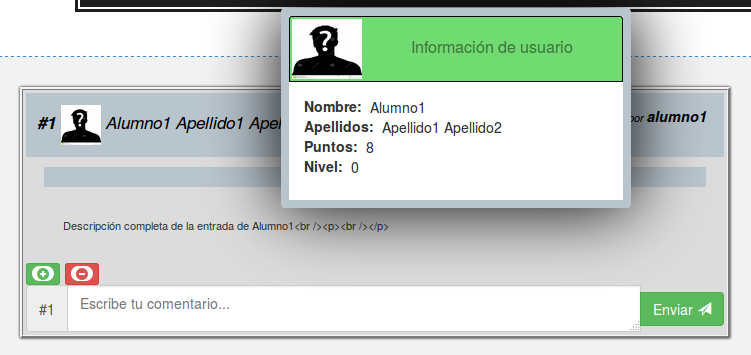
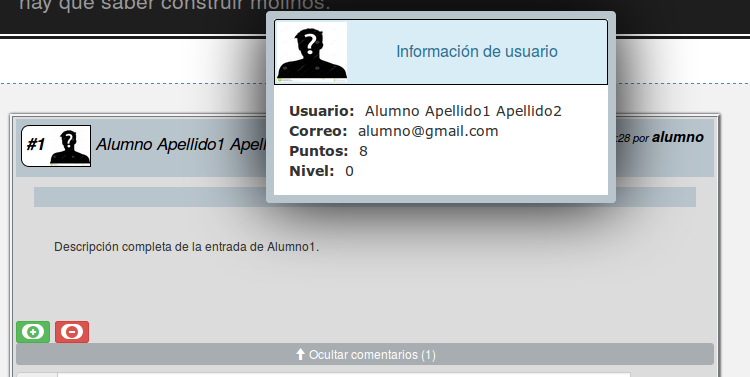
Manual de usuario actualizado.

diff --git a/memoria.tex b/memoria.tex
@@ -1315,7 +1315,7 @@ apropiado por otro usuario en rojo o por el contrario se encuentra libre en verd
 
 Una vez relleno todos los campos del formulario se debe pulsar el bot\'on ''Guardar''. Si los datos son correctos se redirigir\'a a la p\'agina de inicio
 de sesi\'on para que se proceda con la identificaci\'on. Si los datos son incorrectos se mostrar\'a una alerta o panel rojo debajo del formulario con un 
-mensaje de informaci\'on err\'onea que anime a introducirlos otra vez. Se puede dar al icono de la ''X'' para cerrar el panel 
+mensaje de informaci\'on err\'onea que anime a introducirlos otra vez. Se puede dar al icono ''X'' para cerrar el panel 
 (figura~\ref{figura:registro2}).
 \begin{figure}[htbp] 
   \centering
@@ -1325,7 +1325,7 @@ mensaje de informaci\'on err\'onea que anime a introducirlos otra vez. Se puede 
 \end{figure}
 
 Seg\'un se ve en el mensaje de informaci\'on err\'onea existe la posibilidad de pasar el rat\'on por encima del icono de informaci\'on, a la izquierda del 
-bot\'on ''Guardar''. Al realizar esta acci\'on se abre una alerta azul con un mensaje recordatorio de como debe ser los datos introducidos para un correcto
+bot\'on ''Guardar''. Al realizar esta acci\'on se abre una alerta azul con un mensaje recordatorio de como deben ser los datos introducidos para un correcto
 registro de perfil de usuario. Son cinco condiciones que se enumeran en la figura~\ref{figura:registro3}.
 \begin{figure}[htbp] 
   \centering
@@ -1342,7 +1342,7 @@ redirigir\'a a la p\'agina de inicio de sesi\'on.
 \label{app:presentaciontutor}
 Despu\'es de haber realizado el registro de usuario como tutor y de introducir nombre de usuario y contrase\~na en la p\'agina de inicio, la sesi\'on 
 comienza con la presentaci\'on de tutor o perfil de tutor (figura~\ref{figura:tutor}). En la cabecera se ofrece la posibilidad de desconectar la sesi\'on (a la derecha, pulsando el 
-enlace ''Desconectar'' en rojo). S\'olo aparece una pesta\~na ''Mis hilos'' a la izquierda la cual tiene la funci\'on de actualizar la p\'agina de perfil 
+enlace ''Desconectar'' en rojo). S\'olo aparece una pesta\~na ''Mis hilos'', a la izquierda, la cual tiene la funci\'on de actualizar la p\'agina de perfil 
 de tutor. Tambi\'en se exhibe una foto del usuario y un t\'itulo con la expresi\'on \textit{Espacio de NOMBRE APELLIDO1 APELLIDO2} indicando de quien es el
 perfil.
 
@@ -1367,8 +1367,8 @@ Las secciones que se incluyen en la presentaci\'on de un tutor son:
   \end{figure}
   
   \item {\bfseries Hilos disponibles}: Se presentan todos los hilos creados anteriormente a los que el tutor no est\'a suscrito (ya sean creados o no por 
-  el tutor del propio perfil). Como se ve en la figura~\ref{figura:tutor2} cada hilo expone un bot\'on ''A\~nadir'' para que cuando sea presionado, el hilo 
-  correspondiente pase a la secci\'on de ''Mis hilos''.
+  el tutor del propio perfil). Sin embargo, como se muestra en la figura~\ref{figura:tutor2}, al lado de cada hilo se expondr\'a un bot\'on ''A\~nadir'' 
+  solamente si ha sido creado por dicho tutor. Si se presiona pasar\'a a la secci\'on de ''Mis hilos''.
   \begin{figure}[htbp] 
     \centering
     \Ovalbox{\includegraphics[width=17cm, keepaspectratio]{imagenes/PresentacionTutorHilosDisponibles}}
@@ -1378,7 +1378,7 @@ Las secciones que se incluyen en la presentaci\'on de un tutor son:
   
   \item {\bfseries Mis hilos}: Se presentan todos los hilos a los que el tutor est\'a suscrito (figura~\ref{figura:tutor3}). Para cada hilo se hallan las 
   alternativas de apretar el bot\'on ''Eliminar'' para suprimir el hilo de esta secci\'on y enviarlo a ''Hilos disponibles'', o de presionar el bot\'on
-  ''Visitar'' para acceder a la p\'agina propia de la asignatura pertinente. Al pulsar sobre el bot\'on ''Eliminar se abre un cuadro de di\'alogo en el 
+  ''Visitar'' para acceder a la p\'agina propia de la asignatura pertinente. Al pulsar sobre el bot\'on ''Eliminar'' se abre un cuadro de di\'alogo en el 
   centro de la pantalla para asegurarse de que es la acci\'on que realmente se quiere realizar.
   \begin{figure}[htbp] 
     \centering
@@ -1393,7 +1393,7 @@ Las secciones que se incluyen en la presentaci\'on de un tutor son:
 \label{app:presentacionalumno}
 Despu\'es de haber realizado el registro de usuario como alumno y de introducir nombre de usuario y contrase\~na en la p\'agina de inicio, la sesi\'on 
 comienza con la presentaci\'on de alumno o perfil de alumno (figura~\ref{figura:alumno}). En la cabecera se ofrece la posibilidad de desconectar la sesi\'on 
-(a la derecha, pulsando el enlace ''Desconectar'' en rojo). S\'olo aparece una pesta\~na ''Mis hilos'' a la izquierda la cual tiene la funci\'on de 
+(a la derecha, pulsando el enlace ''Desconectar'' en rojo). S\'olo aparece una pesta\~na ''Mis hilos'', a la izquierda, la cual tiene la funci\'on de 
 actualizar la p\'agina de perfil de alumno. Tambi\'en se exhibe una foto del usuario y un t\'itulo con la expresi\'on 
 \textit{Espacio de NOMBRE APELLIDO1 APELLIDO2} indicando de quien es el perfil.
 
@@ -1410,7 +1410,8 @@ Las secciones que se incluyen en la presentaci\'on de un alumno son:
   \item {\bfseries Hilos disponibles}: Se presentan todos los hilos creados anteriormente a los que el alumno no est\'a suscrito. Como se ve en la 
   figura~\ref{figura:alumno1} cada hilo expone un bot\'on ''Guardar y a\~nadir'' para que cuando sea presionado, el hilo correspondiente pase a la 
   secci\'on de ''Mis hilos''. Pero antes se debe haber introducido un enlace \textit{Rss} v\'alido en el formulario proporcionado para ello. En ese 
-  \textit{Rss} ser\'a donde el alumno guardar\'a sus entradas para que dentro de la aplicaci\'on aparezcan autom\'aticamente en el hilo al que pertenecen.
+  \textit{Rss} (blog) ser\'a donde el alumno escribir\'a sus entradas para que se publiquen autom\'aticamente dentro de la aplicaci\'on, concretamente
+  en el hilo al que pertenecen.
   \begin{figure}[htbp] 
     \centering
     \Ovalbox{\includegraphics[width=17cm, keepaspectratio]{imagenes/PresentacionAlumnoHilosDisponibles}}
@@ -1428,7 +1429,7 @@ Las secciones que se incluyen en la presentaci\'on de un alumno son:
   \end{figure}
   
   \item {\bfseries Mis hilos}: Se presentan todos los hilos a los que el alumno est\'a suscrito (secci\'on id\'entica a la que expone la presentaci\'on de 
-  tutor~\ref{figura:tutor3}). Para cada hilo se hallan las alternativas de apretar el bot\'on ''Eliminar'' para suprimir el hilo de esta secci\'on y 
+  tutor (figura~\ref{figura:tutor3}). Para cada hilo se hallan las alternativas de apretar el bot\'on ''Eliminar'' para suprimir el hilo de esta secci\'on y 
   enviarlo a ''Hilos disponibles'', o de presionar el bot\'on ''Visitar'' para acceder a la p\'agina propia de la asignatura pertinente. Al pulsar sobre el 
   bot\'on ''Eliminar'' se abre un cuadro de di\'alogo en el centro de la pantalla para asegurarse de que es la acci\'on que realmente se quiere realizar, 
   avisando de los riesgos que ello conlleva (figura~\ref{figura:alumno3}).
@@ -1452,7 +1453,7 @@ figura~\ref{figura:hiloalumno} se muestra un hilo vac\'io en sus inicios, sin en
   \label{figura:hiloalumno}
 \end{figure}
 
-Para visualizar tus propias entradas es necesario escribir previamente en el blog asociado a esa asignatura. En la aplicaci\'on se ejecuta un script 
+Para ver tus propias entradas es necesario escribir previamente en el blog asociado a esa asignatura. En la aplicaci\'on se ejecuta un script 
 autom\'atico cada sesenta segundos que se encarga de guardar y actualizar las entradas de todos los blogs de todos los alumnos que est\'en suscritos al 
 hilo. Cada vez que un usuario suscrito escriba un mensaje en su blog, este mensaje se plasmar\'a en el contenedor de la p\'agina. Para recargar la p\'agina 
 se puede pulsar sobre la pesta\~na que est\'a activa en cabecera, y que expone el t\'itulo del hilo.
@@ -1472,9 +1473,18 @@ El usuario puede interactuar con una entrada (\ref{figura:hiloalumno1}) de diver
   de un \textit{planet}. Si un usuario presiona uno de los dos botones sobre una entrada, no podr\'a valorar m\'as veces en ella, ya que ambos botones 
   emerger\'an deshabilitados con su contador total. En este momento, el usuario podr\'a visualizar el total de valoraciones positivas y negativas que posee 
   esa entrada.
-  \item {\bfseries Valoraci\'on cualitativa}: El \'area facilitado para escribir un comentario aporta una valoraci\'on cualitativa. Si el usuario decide 
-  proponer una opini\'on sobre una entrada, este usuario recibir\'a una bonificaci\'on de tres \textit{planets} al presionar el bot\'on ''Enviar''. Si ese
-  comentario es eliminado, el usuario obtendr\'a una penalizaci\'on de tres \textit{planets}.
+  \item {\bfseries Valoraci\'on cualitativa}: El \'area facilitado para escribir un comentario aporta una valoraci\'on cualitativa. Para mostrar dicho 
+  \'area hay que desplegar el bot\'on ''Mostrar comentarios'', al lado del cual se encuentra un contador total de comentarios escritos sobre esa entrada.
+  Si el usuario decide proponer una opini\'on, este usuario recibir\'a una bonificaci\'on de tres \textit{planets} al presionar el bot\'on ''Enviar'', y 
+  simult\'aneamente se mostrar\'a un popup informando de que acabas de recibir tres \textit{planets} (ver figura~\ref{figura:hiloalumno6})
+  \begin{figure}[htbp] 
+    \centering
+    \Ovalbox{\includegraphics[width=17cm, keepaspectratio]{imagenes/HiloAlumnoInfoComentario}}
+    \caption{Informaci\'on emergente de un comentario.}
+    \label{figura:hiloalumno6}
+  \end{figure}
+  
+  Si ese comentario es eliminado, el usuario obtendr\'a una penalizaci\'on de tres \textit{planets}.
   \item {\bfseries Ojear blog}: En una entrada existen dos enlaces que redirigir\'an directamente al blog del alumno donde se ubican todas sus entradas 
   fuera de la aplicaci\'on. Los dos enlaces aparecen en forma de ''Nombre y apellidos'' y ''Nick'' (al lado de la fecha, en negrita).
   
@@ -1488,16 +1498,27 @@ El usuario puede interactuar con una entrada (\ref{figura:hiloalumno1}) de diver
     \label{figura:hiloalumno2}
   \end{figure}
   
-  \item {\bfseries Informaci\'on adicional}: Adem\'as, la entrada muestra el n\'umero de identificaci\'on seguido de ''\#''. Para cada hilo no puede existir
+  \item {\bfseries Informaci\'on adicional}: Adem\'as, la entrada muestra el n\'umero de identificaci\'on seguido de ''\#'' y una foto. Para cada hilo no puede existir
   dos entradas con un mismo n\'umero identificativo.
 \end{itemize}
+
+\subsection{Logo}
+Debajo de la cabecera, en la parte izquierda se puede observar el logo y el nombre de la aplicaci\'on, junto con una frase motivadora que hace de eslogan.
+Cada vez que se recarga la p\'agina o se presiona sobre la frase, \'esta se modifica autom\'atica y aleatoriamente de entre un conjunto de 21 oraciones 
+(~\ref{figura:logonombrefrase})
+\begin{figure}[htbp] 
+  \centering
+  \Ovalbox{\includegraphics[width=17cm, keepaspectratio]{imagenes/LogoNombreFrase}}
+  \caption{Logo, nombre y eslogan aleatorio de la aplicaci\'on.}
+  \label{figura:logonombrefrase}
+\end{figure}
 
 \subsection{Entradas m\'as valoradas}
 Otra parte importante se sit\'ua en la parte superior de la p\'agina debajo de la cabecera, donde se agrupan las entradas con m\'as valoraci\'on 
 cuantitativa de la asignatura. Se aplica una f\'ormula, la cual suma dos \textit{planets} por cada valoraci\'on positiva y resta un \textit{planet} por 
-cada valoraci\'on negativa. Se calcula el total de la suma y se plasman las seis mejores entradas.
+cada valoraci\'on negativa. Se calcula el total de la suma y se plasman las diez mejores entradas.
 
-En la figura~\ref{figura:hiloalumno3} se muestra la secci\'on donde encajan las seis entradas seleccionadas. Cada una se rellena con el n\'umero de 
+En la figura~\ref{figura:hiloalumno3} se muestra la secci\'on donde encajan las diez entradas seleccionadas. Cada una se rellena con el n\'umero de 
 posici\'on que ocupa, su identificador, su t\'itulo, la persona que lo escribi\'o, su fecha, las valoraciones positivas y negativas (en color verde y rojo,
 respectivamente), y por \'ultimo su n\'umero total de \textit{planets}. Para obtener el n\'umero total de planets es necesario pinchar encima de cada 
 entrada (al mantener el rat\'on encima un instante sale un mensaje informativo).
@@ -1510,7 +1531,7 @@ entrada (al mantener el rat\'on encima un instante sale un mensaje informativo).
 
 \subsection{Usuarios suscritos}
 En la columna situada a la derecha se re\'unen en una tabla todos los alumnos suscritos en el hilo. Esta tabla se compone de tres columnas correspondientes
-al nick de usuario, nombre y apellidos de usuario, y un enlace que redirecciona al Rss del blog que est\'a asociado al hilo con el propio alumno 
+al nick de usuario, nombre y apellidos de usuario, y un enlace que redirecciona al Rss del blog del alumno. 
 (~\ref{figura:hiloalumno4}).
 \begin{figure}[htbp] 
   \centering
@@ -1535,7 +1556,7 @@ determinada altura. Si se pulsa sobre ella, el scroll asciende autom\'aticamente
 \end{figure}
 
 \section{Hilo de profesor}
-Se conservan las mismas funciones que en el hilo de alumno (leer secci\'on~\ref{app:hiloalumno}) con algunos cambios en ''Entradas'' y en ''Usuarios 
+Se conservan las mismas funciones que en la secci\'on~\ref{app:hiloalumno} (hilo de alumno) con algunos cambios en ''Entradas'' y en ''Usuarios 
 suscritos''. En la figura~\ref{figura:hiloprofesor} se observa como estos cambios se reducen simplemente a que un tutor tiene el permiso de eliminar 
 cualquier entrada y cualquier alumno de un determinado hilo.
 \begin{figure}[htbp] 
@@ -1560,11 +1581,11 @@ usuario de ese hilo o no. Ver figura~\ref{figura:hiloprofesor1}(b).
 
 \section{Opciones de men\'u en cabecera}
 Dentro de la cabecera del hilo de un alumno o de un tutor se encuentran varias opciones. Cada pesta\~na esconde un enlace que redirigir\'a a su 
-perteneciente p\'agina. Una vez el usuario se encuentre en la p\'agina del enlace pulsado, la pesta\~na se mostrar\'a activa en color blanco mientras que 
+correspondiente p\'agina. Una vez el usuario se encuentre en la p\'agina del enlace pulsado, la pesta\~na se mostrar\'a activa en color blanco mientras que 
 las dem\'as pesta\~nas permanecer\'an inactivas en color negro.
 
 \subsection{Mis hilos}
-La pesta\~na de ''Mis hilos'' devolver\'a al usuario a su presentaci\'on descrita anteriormente en la secci\'on~\ref{app:presentacionalumno} (si el usuario
+La pesta\~na de ''Mis hilos'' devolver\'a al usuario a su perfil o presentaci\'on descrita anteriormente en la secci\'on~\ref{app:presentacionalumno} (si el usuario
 es un alumno) o en la secci\'on~\ref{app:presentaciontutor} (si el usuario es un tutor).
 
 \subsection{T\'itulo del hilo}
@@ -1603,9 +1624,29 @@ Si se despliega el men\'u ''Puntuaci\'on'' emergen dos opciones:
 \end{itemize}
 
 
+\subsection{Ayuda}
+La pesta\~na ''Ayuda'' muestra una serie de informaci\'on y consejos de uso meramente informativos sobre la aplicaci\'on. Adem\'as, se aconseja enviar a un 
+correo electr\'onico espec\'ifico con sugerencias para futuras mejoras o con planteamientos de diversos problemas que se encuentren los usuarios 
+(figura~\ref{fig:informacionpuntuaciones}).
+\begin{figure}[htbp] 
+  \centering
+  \Ovalbox{\includegraphics[width=17cm, keepaspectratio]{imagenes/Ayuda}}
+  \caption{Ayuda.}
+  \label{figura:ayuda}
+\end{figure}
+
+
 \subsection{Cierre de sesi\'on}
 El enlace en rojo ''Desconectar'' expuesto en la parte derecha de la cabecera se usa para cerrar la sesi\'on de usuario. Al presionarlo se saldr\'a de la 
-aplicaci\'on y volver\'a a la p\'agina de inicio para logarse otra vez si se desea.
+aplicaci\'on y volver\'a a la p\'agina de inicio para logarse otra vez si se desea.\\
+Si el usuario superpone el rat\'on encima del icono azul (a la derecha del enlace de desconectar), se despliega un popup con informaci\'on del creador del 
+hilo (nombre y apellidos, y correo ~\ref{figura:infocreador})
+\begin{figure}[htbp] 
+  \centering
+  \Ovalbox{\includegraphics[width=17cm, keepaspectratio]{imagenes/HiloAlumnoInfoCreador}}
+  \caption{Informaci\'on del creador del hilo.}
+  \label{figura:infocreador}
+\end{figure}
 %%%%%%%%%%%%%%%%%%%%%%%%%%%%%%%%%%%%%%%%%%%%%%%%%%%%%%%%%%%%%%%%%%%%%%%%%%%%%%%%
 %%%%%%%%%%%%%%%%%%%%%%%%%%%%%%%%%%%%%%%%%%%%%%%%%%%%%%%%%%%%%%%%%%%%%%%%%%%%%%%%
 % INSTALACION Y USO %
